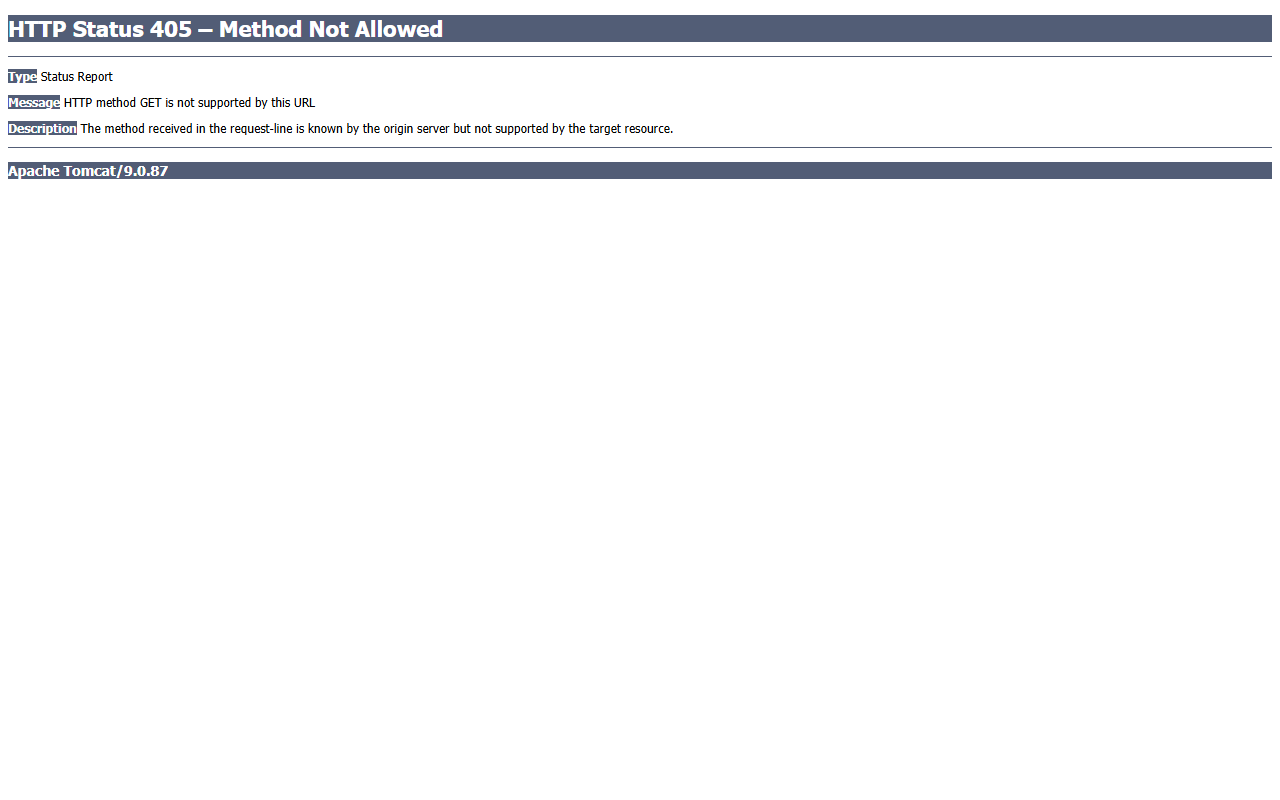
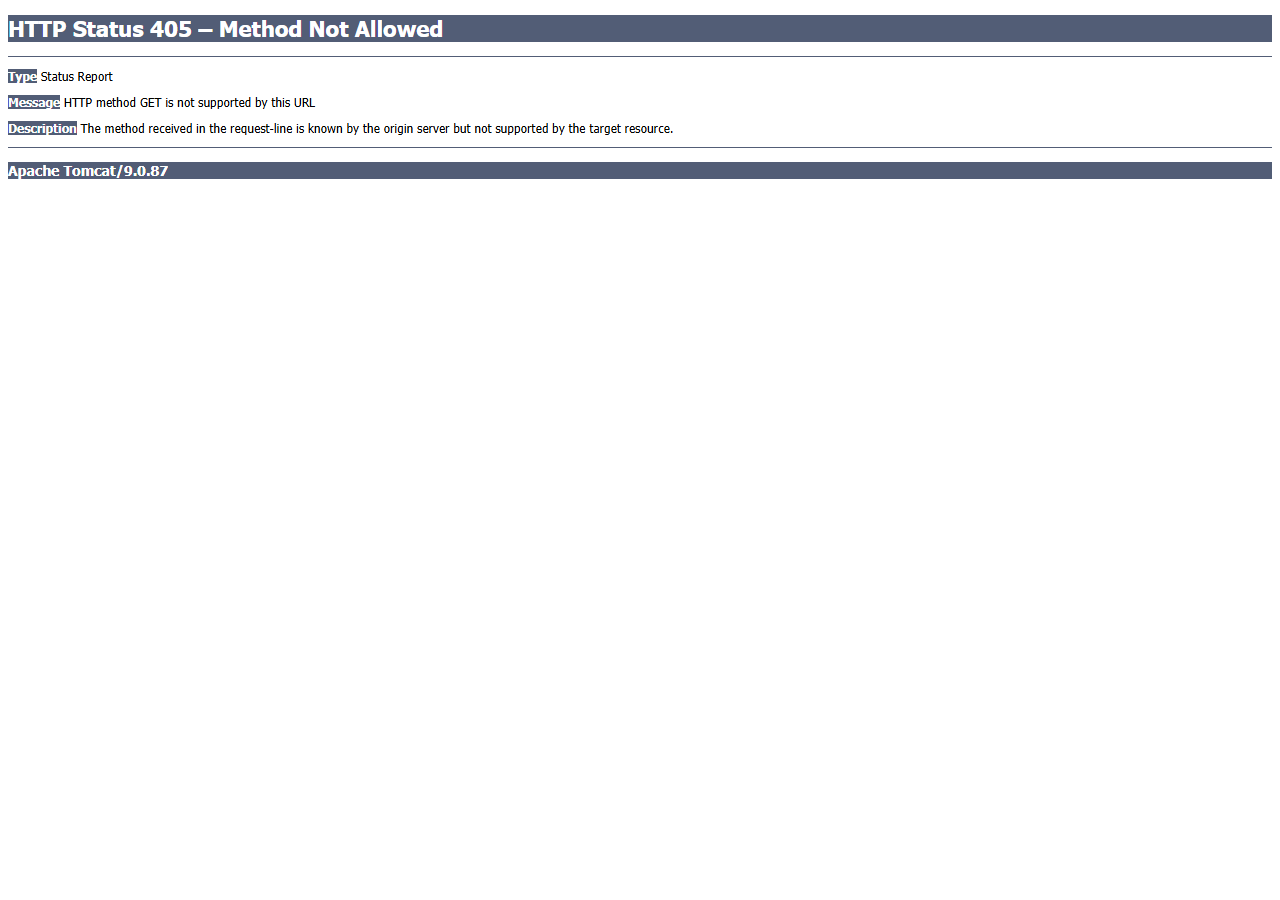
Update cart/register/checkout/order-history screenshots; remove admin sections from README

Changed region(s): [[0.0, 0.0, 1.0, 0.25]]

diff --git a/JSP-Ecom-Application-main/README.md b/JSP-Ecom-Application-main/README.md
@@ -323,106 +323,9 @@ Manage account information and settings:
 - Quick logout button
 - Security-conscious settings
 
----
-
-### 10. Admin Product Management
-**Live Preview:** `http://localhost:8081/product-management` (Requires admin login)
-
-![Admin Products Screenshot](screenshots/10-admin-products.png)
-
-Administrator panel for managing product inventory:
-- **Products Table**:
-  - Product ID
-  - Product Image (thumbnail)
-  - Product Name
-  - Category
-  - Price
-  - Stock Quantity
-  - Status (Active/Inactive)
-  - Action buttons
-- **Each Row Shows**:
-  - Quick product information
-  - Stock level indicator
-  - "Edit" button (modify product details, price, images)
-  - "Delete" button (remove product)
-  - "View" button (see live product page)
-- **Toolbar**:
-  - "[+ Add New Product]" button
-  - Search/filter products
-  - Sort options (by name, price, stock)
-  - Bulk actions (delete multiple, change status)
-- **Add/Edit Product Form**:
-  - Product name and description
-  - Category selection
-  - Price input
-  - Stock quantity
-  - Product image upload
-  - Active/Inactive toggle
-  - Save button
-- **Bulk Inventory Update**:
-  - Change stock for multiple products
-  - Batch pricing updates
-  - Export/Import product list
-
-**What to expect:**
-- Table view of all products
-- Quick edit access
-- Ability to add new products
-- Product image management
-- Stock level tracking
-
----
-
-### 11. Admin Order Management
-**Live Preview:** `http://localhost:8081/order-management` (Requires admin login)
-
-![Admin Orders Screenshot](screenshots/11-admin-orders.png)
-
-Administrator panel for managing customer orders:
-- **Orders Table**:
-  - Order ID
-  - Customer Name / Email
-  - Order Date
-  - Order Total
-  - Order Status (Pending, Processing, Shipped, Delivered, Cancelled)
-  - Action buttons
-- **Status Indicators**:
-  - Color-coded status badges
-  - Status progression timeline
-  - Expected delivery date
-- **Each Row Actions**:
-  - "View Details" button
-  - "Edit Status" button
-  - "Print Invoice" button
-  - "Send Email" button (notification to customer)
-  - "Cancel Order" button (if allowed)
-- **Order Details View**:
-  - All items in the order
-  - Customer shipping address
-  - Billing address
-  - Payment method
-  - Shipping carrier and tracking number
-  - Order timeline (placed, confirmed, shipped, delivered)
-- **Filtering & Search**:
-  - Filter by status
-  - Filter by date range
-  - Search by customer name or order ID
-  - Sort options
-- **Bulk Actions**:
-  - Update multiple order statuses
-  - Generate shipping labels
-  - Send bulk emails to customers
-
-**What to expect:**
-- Dashboard view of all customer orders
-- Easy status management
-- Customer communication tools
-- Shipping integration
-- Order tracking visibility
-
----
 
 ## 📱 Responsive Design
+
 
 The application is fully responsive and works seamlessly on:
 - 📱 **Mobile devices** (320px - 480px)

diff --git a/README.md b/README.md
@@ -323,106 +323,9 @@ Manage account information and settings:
 - Quick logout button
 - Security-conscious settings
 
----
-
-### 10. Admin Product Management
-**Live Preview:** `http://localhost:8081/product-management` (Requires admin login)
-
-![Admin Products Screenshot](JSP-Ecom-Application-main/screenshots/10-admin-products.png)
-
-Administrator panel for managing product inventory:
-- **Products Table**:
-  - Product ID
-  - Product Image (thumbnail)
-  - Product Name
-  - Category
-  - Price
-  - Stock Quantity
-  - Status (Active/Inactive)
-  - Action buttons
-- **Each Row Shows**:
-  - Quick product information
-  - Stock level indicator
-  - "Edit" button (modify product details, price, images)
-  - "Delete" button (remove product)
-  - "View" button (see live product page)
-- **Toolbar**:
-  - "[+ Add New Product]" button
-  - Search/filter products
-  - Sort options (by name, price, stock)
-  - Bulk actions (delete multiple, change status)
-- **Add/Edit Product Form**:
-  - Product name and description
-  - Category selection
-  - Price input
-  - Stock quantity
-  - Product image upload
-  - Active/Inactive toggle
-  - Save button
-- **Bulk Inventory Update**:
-  - Change stock for multiple products
-  - Batch pricing updates
-  - Export/Import product list
-
-**What to expect:**
-- Table view of all products
-- Quick edit access
-- Ability to add new products
-- Product image management
-- Stock level tracking
-
----
-
-### 11. Admin Order Management
-**Live Preview:** `http://localhost:8081/order-management` (Requires admin login)
-
-![Admin Orders Screenshot](JSP-Ecom-Application-main/screenshots/11-admin-orders.png)
-
-Administrator panel for managing customer orders:
-- **Orders Table**:
-  - Order ID
-  - Customer Name / Email
-  - Order Date
-  - Order Total
-  - Order Status (Pending, Processing, Shipped, Delivered, Cancelled)
-  - Action buttons
-- **Status Indicators**:
-  - Color-coded status badges
-  - Status progression timeline
-  - Expected delivery date
-- **Each Row Actions**:
-  - "View Details" button
-  - "Edit Status" button
-  - "Print Invoice" button
-  - "Send Email" button (notification to customer)
-  - "Cancel Order" button (if allowed)
-- **Order Details View**:
-  - All items in the order
-  - Customer shipping address
-  - Billing address
-  - Payment method
-  - Shipping carrier and tracking number
-  - Order timeline (placed, confirmed, shipped, delivered)
-- **Filtering & Search**:
-  - Filter by status
-  - Filter by date range
-  - Search by customer name or order ID
-  - Sort options
-- **Bulk Actions**:
-  - Update multiple order statuses
-  - Generate shipping labels
-  - Send bulk emails to customers
-
-**What to expect:**
-- Dashboard view of all customer orders
-- Easy status management
-- Customer communication tools
-- Shipping integration
-- Order tracking visibility
-
----
 
 ## 📱 Responsive Design
+
 
 The application is fully responsive and works seamlessly on:
 - 📱 **Mobile devices** (320px - 480px)